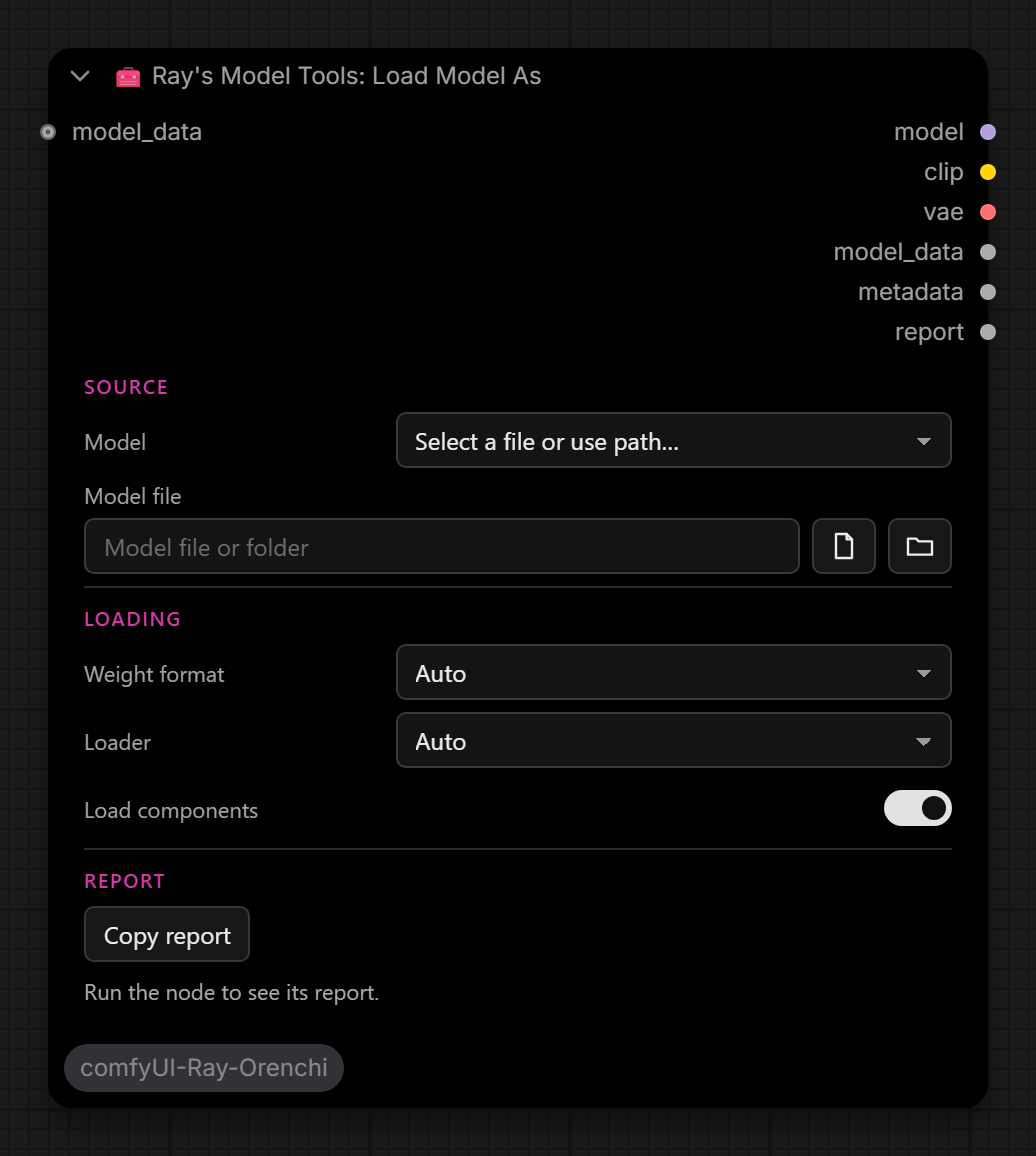
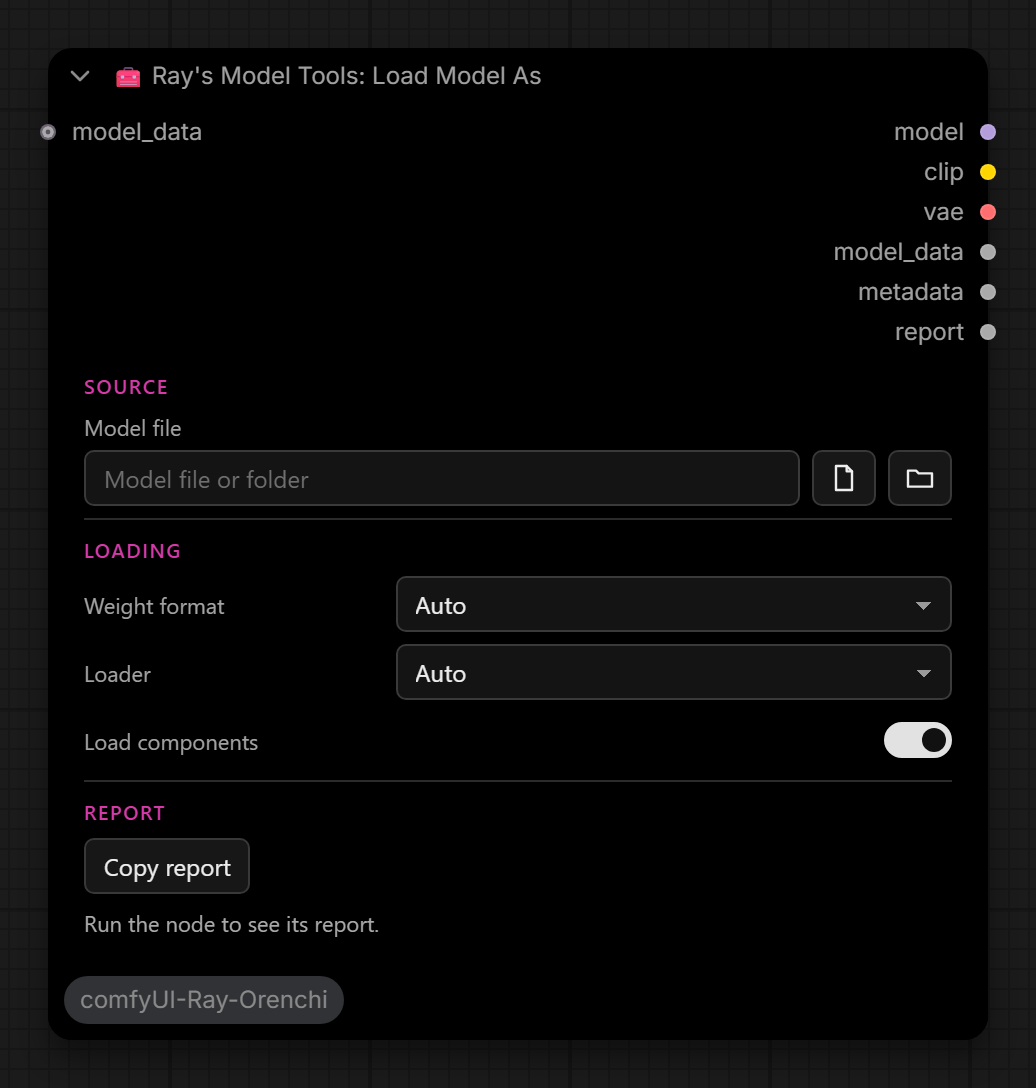
Use a file picker for model loading

diff --git a/web/ray_model_tools.js b/web/ray_model_tools.js
@@ -1,6 +1,6 @@
 import { app } from "../../scripts/app.js";
 import { api } from "../../scripts/api.js";
-import { installPanel } from "./ray_panel.js";
+import { installPanel, linkOf } from "./ray_panel.js";
 import { applyBucketTint, setWidgetHidden } from "./_common.js";
 import { browseInto, notify } from "./browse_common.js";
 import { metadataRows, rowsToMetadata, mergeFields, filterTensors, parseMetadataJSON } from "./model_tools_ui.mjs";
@@ -231,7 +231,7 @@ const SECTIONS = {
     ],
 };
 const LABELS = {
-    model_name: "Model", lora_name: "LoRA", lora_path: "LoRA file",
+    model_name: "Model file", lora_name: "LoRA", lora_path: "LoRA file",
     strength_model: "Model strength", strength_clip: "CLIP strength", metadata_json: "Metadata (JSON)",
     path: "Model file", path_a: "Model A file", path_b: "Model B file", base_path: "Base model file",
     finetuned_path: "Fine-tuned model file", source_model_path: "Source model file", output_path: "Output file",
@@ -241,15 +241,28 @@ const INSPECT_FILTERS = [["Model files", ["safetensors", "gguf"]]];
 const METADATA_FILTERS = [["Models / metadata", ["safetensors", "json"]]];
 const outputExtension = (node, id) => id === "RayModelMetadataSave" && value(node, "mode") === "json_sidecar" ? "json" : "safetensors";
 
+function normalizeLoadSource(node) {
+    const source = widget(node, "model_name"), legacy = widget(node, "path");
+    if (!source) return;
+    const input = node.inputs?.find(input => input.name === "model_name" || input.widget?.name === "model_name");
+    if (input?.type === "COMBO") input.type = "STRING";
+    if (legacy?.value && !linkOf(node, "path")) {
+        if (!linkOf(node, "model_name")) source.value = legacy.value;
+        legacy.value = "";
+    }
+    if (source.value === "Select a file or use path…") source.value = "";
+}
+
 export function installModelTools(node, id) {
+    if (id === "RayModelLoadAs") normalizeLoadSource(node);
     if (node._rayModelTools) return;
     node._rayModelTools = true; styles(); applyBucketTint(node, "Tools");
     const hidden = id === "RayModelMetadata" ? ["editor_json", "editor_source"] : [];
     for (const name of hidden) if (widget(node, name)) setWidgetHidden(node, widget(node, name), true);
     const native = (node.widgets || []).filter(w => w.type !== "button" && w.name !== "control_after_generate" && !hidden.includes(w.name));
     const fields = native.map(w => {
-        const field = { name: w.name, label: LABELS[w.name], full: /path|block_weights|metadata_json/.test(w.name) };
-        if (/^(path|path_a|path_b|base_path|finetuned_path|lora_path|source_model_path)$/.test(w.name)) {
+        const field = { name: w.name, label: LABELS[w.name], full: /path|model_name|block_weights|metadata_json/.test(w.name) };
+        if (/^(model_name|path|path_a|path_b|base_path|finetuned_path|lora_path|source_model_path)$/.test(w.name)) {
             const metadata = id === "RayModelMetadata";
             if (metadata) field.label = "Model / metadata file";
             field.browse = { kind: "file", title: `Choose ${field.label.toLowerCase()}`,
@@ -259,6 +272,12 @@ export function installModelTools(node, id) {
             else if (w.name === "source_model_path") field.placeholder = "Path to a model file";
             else field.actions = [{ icon: "folder", title: "Choose a model folder",
                 onClick: () => browseInto(node, w.name, { kind: "folder", title: "Choose a model folder" }) }];
+        }
+        if (id === "RayModelLoadAs" && ["model_name", "path"].includes(w.name)) {
+            field.when = n => {
+                normalizeLoadSource(n);
+                return !!linkOf(n, "path") === (w.name === "path");
+            };
         }
         if (w.name === "output_path") {
             field.browse = n => ({ kind: "save", title: "Choose output file",

diff --git a/ray_model_tools.py b/ray_model_tools.py
@@ -44,12 +44,14 @@ def resolve_file(name="", path=""):
     import folder_paths
     if path.strip():
         result = core.clean_path(path)
-    elif ": " in name:
+    elif name.startswith(("checkpoints: ", "diffusion_models: ", "loras: ")):
         group, filename = name.split(": ", 1)
         resolved = folder_paths.get_full_path(group, filename)
         if not resolved:
             raise ValueError(f"Model file not found: {filename}")
         result = core.clean_path(resolved)
+    elif name.strip() and name != "Select a file or use path…":
+        result = core.clean_path(name)
     else:
         raise ValueError("Select a model file or enter its path.")
     if not result.exists():
@@ -174,14 +176,14 @@ def changed_path(path="", **_):
 
 
 class RayModelLoadAs:
-    DESCRIPTION = "Load a supported diffusion model or checkpoint. Conversion changes stored weights; FP8→FP16 cannot restore lost precision. Paths override the model dropdown."
+    DESCRIPTION = "Choose a supported diffusion model or checkpoint file, or a sharded model folder. Conversion changes stored weights; FP8→FP16 cannot restore lost precision."
     CATEGORY, FUNCTION = CATEGORY, "load"
     RETURN_TYPES = ("MODEL", "CLIP", "VAE", "RAY_MODEL_DATA", "RAY_MODEL_METADATA", "STRING")
     RETURN_NAMES = ("model", "clip", "vae", "model_data", "metadata", "report")
 
     @classmethod
     def INPUT_TYPES(cls):
-        return {"required": {"model_name": combo(files("models")), "weight_format": combo(["auto", *core.FORMATS]),
+        return {"required": {"model_name": text(), "weight_format": combo(["auto", *core.FORMATS]),
                              "loader": combo(["auto", "checkpoint", "diffusion"]),
                              "load_components": ("BOOLEAN", {"default": True})},
                 "optional": {"path": text(), "model_data": ("RAY_MODEL_DATA",)}}
@@ -190,7 +192,7 @@ class RayModelLoadAs:
     def IS_CHANGED(cls, model_name="", path="", model_data=None, **kwargs):
         return changed_path(path=model_data.path if model_data else resolve_file(model_name, path))
 
-    def load(self, model_name, weight_format="auto", loader="auto", load_components=True, path="", model_data=None):
+    def load(self, model_name="", weight_format="auto", loader="auto", load_components=True, path="", model_data=None):
         source = core.TensorSource(model_data.path if model_data else resolve_file(model_name, path))
         asset = core.ModelAsset(str(source.path), source.metadata)
         target = weight_format

diff --git a/MODEL_TOOLS.md b/MODEL_TOOLS.md
@@ -5,7 +5,7 @@ ModelMergeTools app and its FastAPI server are not required.
 
 | Node | Purpose |
 | --- | --- |
-| [Load Model As](screenshots/RayModelLoadAs.png) | Select a checkpoint/diffusion model, or browse to a safetensors file/sharded directory. Auto detects the loader. |
+| [Load Model As](screenshots/RayModelLoadAs.png) | Choose a safetensors checkpoint/diffusion model with the file picker, or select a sharded model directory. Auto detects the loader. |
 | [Convert Model](screenshots/RayModelConvert.png) | Convert a file or connected MODEL into another storage format. |
 | [Save Model](screenshots/RayModelSave.png) | Save the effective model, including active merge and LoRA patches, with optional CLIP/VAE and metadata. |
 | [Metadata Load / Edit](screenshots/RayModelMetadata.png) | Read model metadata or a JSON sidecar into an editable table and raw JSON editor. |

diff --git a/NODES.md b/NODES.md
@@ -709,7 +709,7 @@ connect Save Image or another output node when you want to save them.
 
 ![🧰 Ray's Model Tools: Load Model As](screenshots/RayModelLoadAs.png)
 
-**Purpose.** Load a checkpoint or diffusion model with automatic loading or an explicit storage format. Accepts a model selection, path, or `model_data` handle; returns MODEL, CLIP, VAE, model data, metadata, and a report.
+**Purpose.** Choose a checkpoint or diffusion model with the file picker, or select a sharded model folder. Load it automatically or with an explicit storage format. Also accepts a `model_data` handle; returns MODEL, CLIP, VAE, model data, metadata, and a report.
 
 **Category:** `👑 Ray/🧰 Model Tools`. See [the Model Tools guide](MODEL_TOOLS.md) for supported formats, connections, controls, and examples.
 
